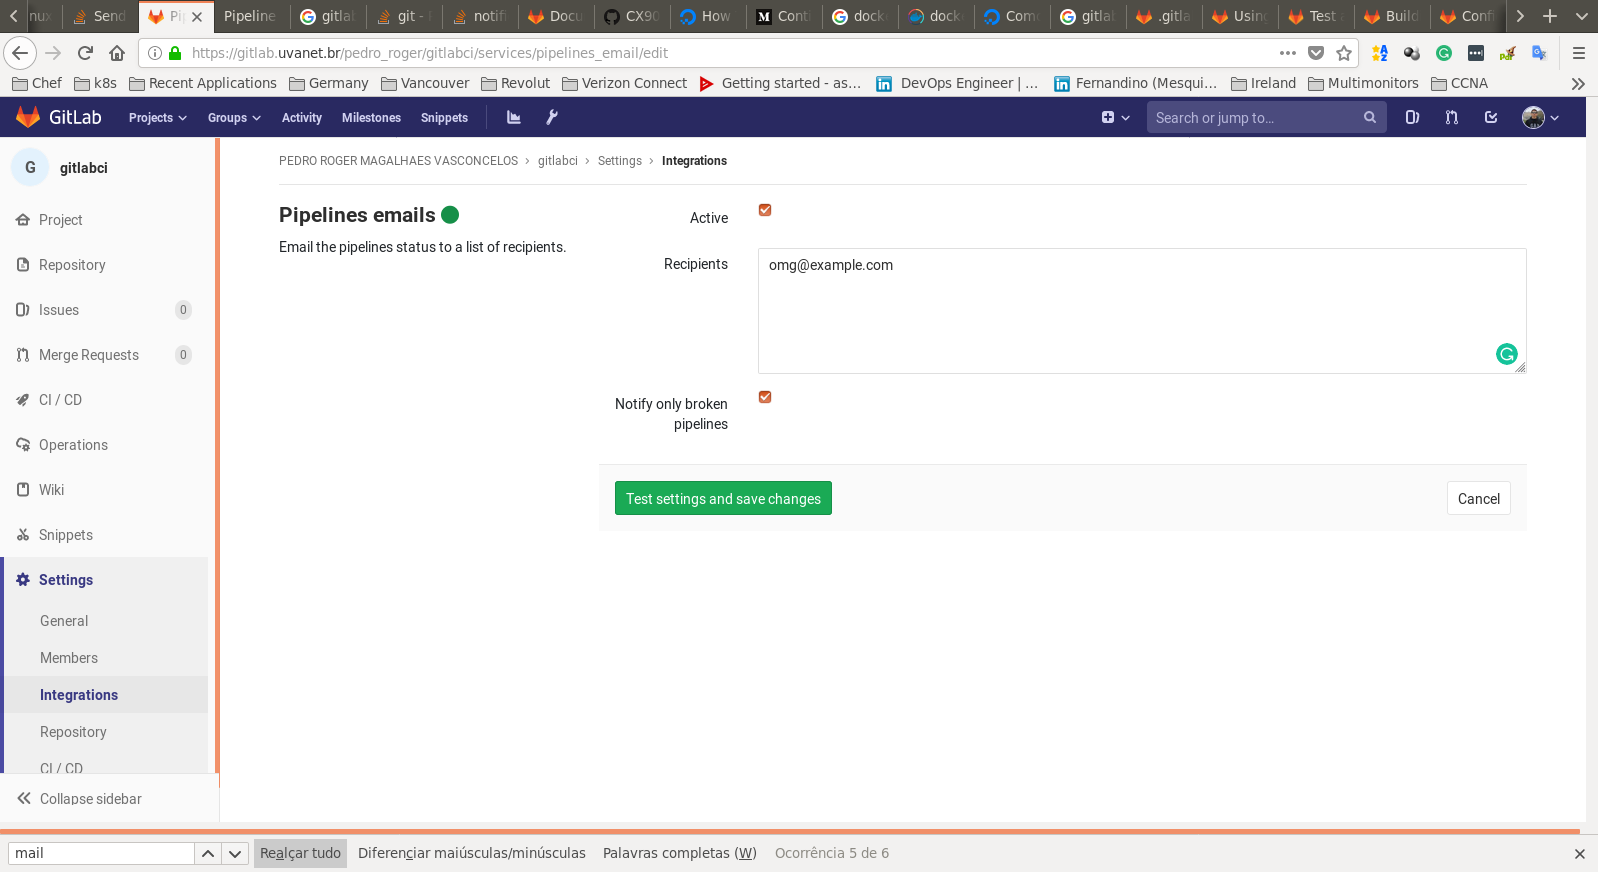
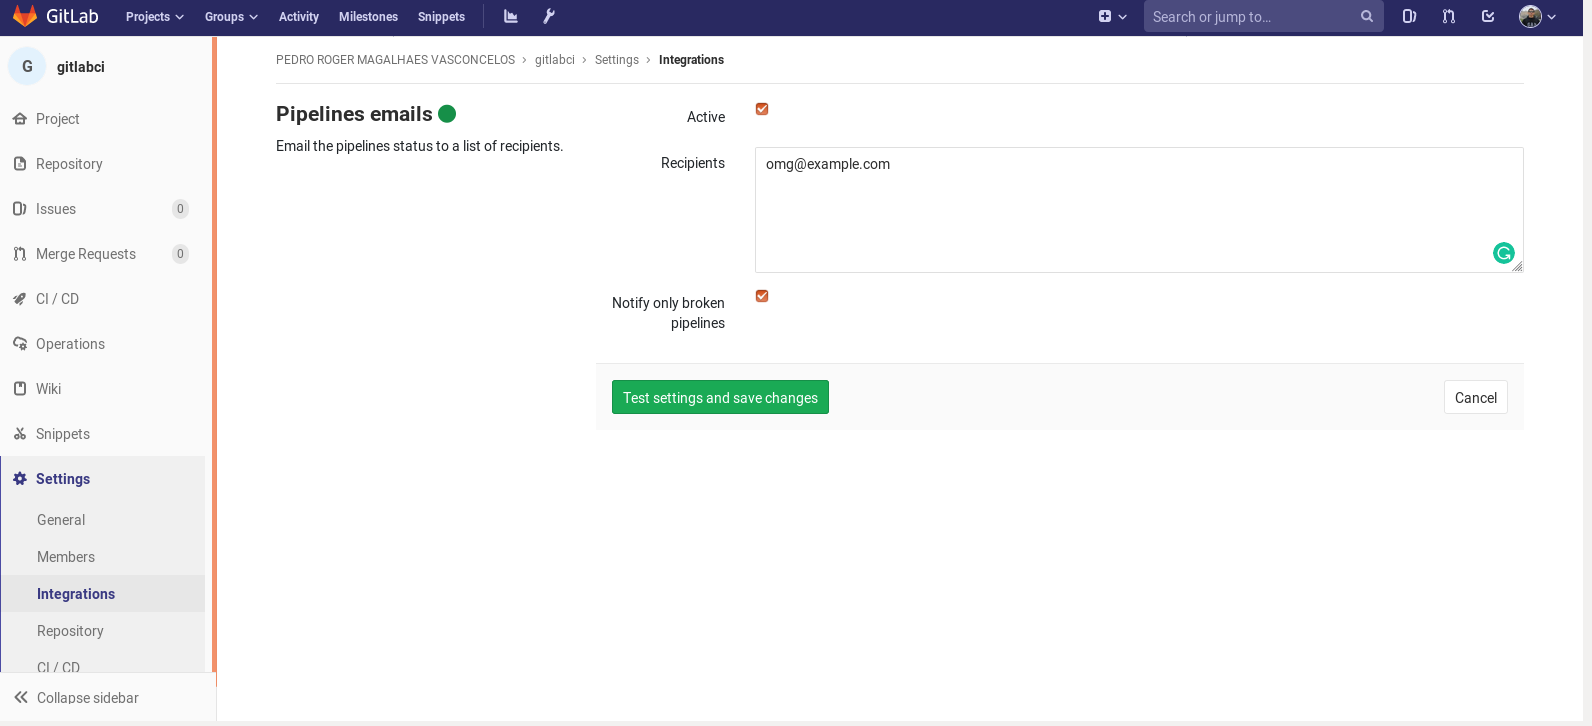
q7

diff --git a/7/README.md b/7/README.md
@@ -1,0 +1,89 @@
+# Jenkins pipeline to GitLab pipeline
+
+This task involves the conversion of a Jenkins pipeline to a GitLab pipeline.
+The `post` step was dropped, because GitLab has a per-project built-in notification engine, acessible via "Project -> Settings -> Integrations -> Pipelines emails".
+![enter image description here](https://github.com/progerjkd/devinfra-challenge/raw/master/7/email_integration.png)
+
+This feature has the option to 'Notify only broken pipelines', as suggested in the Jenkinsfile.
+
+Bellow is a example of the email notification sent.
+
+![enter image description here](https://github.com/progerjkd/devinfra-challenge/raw/master/7/email_received.png)
+
+## GitLab pipeline
+
+```yaml
+    stages:
+      - checkout
+      - test
+
+    checkout job:
+      stage: checkout
+      variables:
+        GIT_STRATEGY: clone
+        GIT_CHECKOUT: "false"
+      script:
+        - REPO_URL=""
+        - git clone $REPO_URL
+      artifacts:
+        expire_in: 30 days
+
+    Run the tests:
+      stage: test
+      script:
+        - docker build -t my-image .
+        - docker run my-image python3 -m unittest
+   ```
+
+## Jenkins pipeline
+       pipeline {
+      agent any
+
+      options {
+        skipDefaultCheckout true
+        disableConcurrentBuilds()
+        buildDiscarder(logRotator(
+          artifactDaysToKeepStr: '1',
+          artifactNumToKeepStr: '3',
+          daysToKeepStr: '30',
+          numToKeepStr: '50'
+        ))
+      }
+
+      stages {
+        stage('Checkout') {
+          steps {
+            checkout([$class: 'GitSCM',
+              submoduleCfg: [],
+              branches: scm.branches,
+              extensions: scm.extensions + [
+              [$class: 'CleanBeforeCheckout', cleanSubmodule: true],
+              ],
+              userRemoteConfigs: scm.userRemoteConfigs,
+              doGenerateSubmoduleConfigurations: false,
+            ])
+          }
+        }
+
+        stage('Run the tests') {
+          agent {
+            dockerfile {
+              reuseNode true
+            }
+          }
+          steps {
+            sh "python3 -m unittest"
+          }
+        }
+      }
+
+      post {
+        failure {
+          mail to: "${env.CHANGE_AUTHOR_EMAIL}",
+          cc: "omg@example.com",
+          subject: "FAILED: ${env.JOB_NAME} ${env.BUILD_DISPLAY_NAME}",
+          mimeType: "text/html",
+          body: "<p>Check <a href='${env.RUN_DISPLAY_URL}'>${env.JOB_NAME} ${env.BUILD_DISPLAY_NAME}'>"
+        }
+      }
+    }
